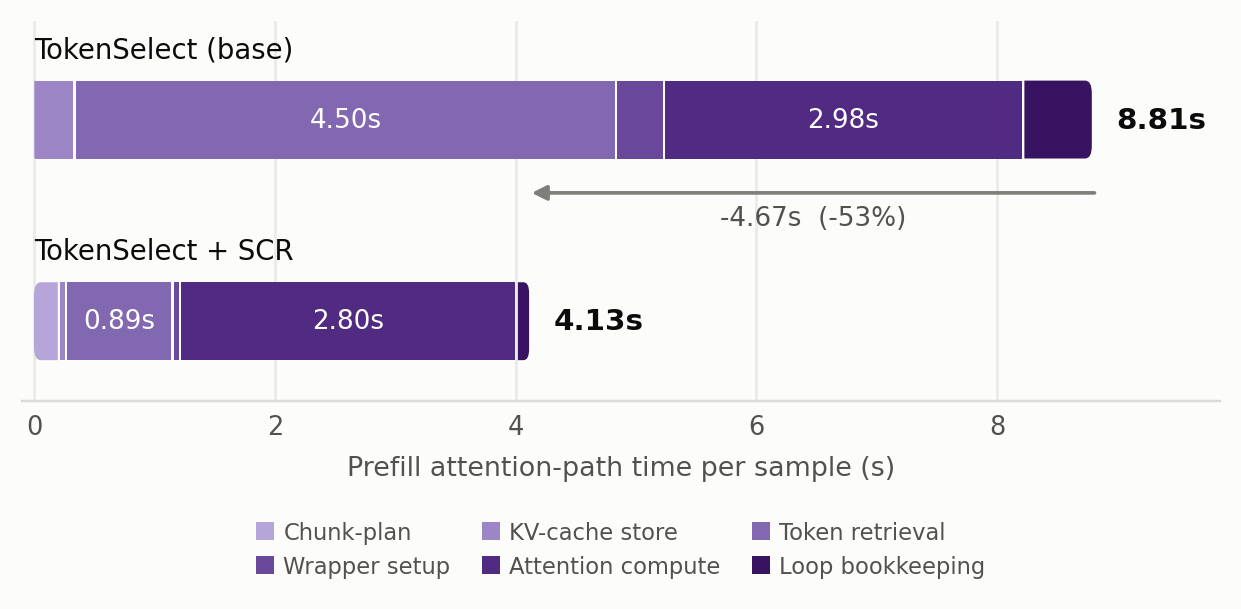
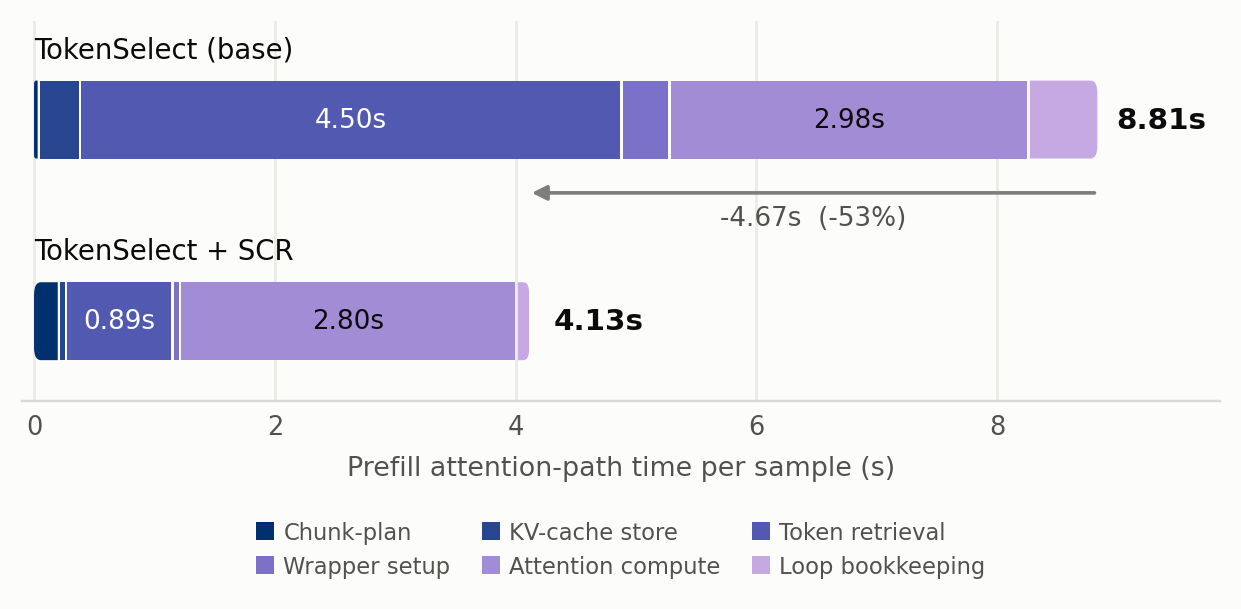
Enhance prefill breakdown visualization: update color ramp and improve label contrast

diff --git a/scripts/plot_prefill_breakdown.py b/scripts/plot_prefill_breakdown.py
@@ -21,8 +21,26 @@ STAGES = [
 CONFIGS = ["TokenSelect (base)", "TokenSelect + SCR"]
 
 # lavender ordinal ramp — validateOrdinal: monotone L, dL>=0.083, light-end 2.32:1, CVD dE 8.5
-# ordinal ramp lavender, validateOrdinal: dL>=0.091, light-end 2.18:1, CVD dE 8.6 (PASS)
-RAMP = ["#b6a5d9", "#9c86c5", "#8267b1", "#6a489c", "#512b82", "#381361"]
+# Ramp da sac xanh bien dam -> tim (kieu ColorBrewer BuPu, dao chieu).
+# validateOrdinal: L don dieu, dL>=0.090, light-end 2.01:1, CVD dE 8.4 (PASS).
+# Rieng check "Single hue" khong ap dung: day la multi-hue sequential co chu dich.
+RAMP = ["#00306e", "#284590", "#515ab0", "#7b71c8", "#a28cd6", "#c6a9e2"]
+
+
+def _lum(hexc):
+    def f(c):
+        c = int(hexc[c:c + 2], 16) / 255
+        return c / 12.92 if c <= 0.04045 else ((c + 0.055) / 1.055) ** 2.4
+    r, g, b = f(1), f(3), f(5)
+    return 0.2126 * r + 0.7152 * g + 0.0722 * b
+
+
+def label_ink(bg):
+    """Chon mau chu theo do tuong phan: ramp trai dai tu rat dam den rat sang."""
+    L = _lum(bg)
+    white = (1.05) / (L + 0.05)
+    dark = (L + 0.05) / (0.0086 + 0.05)
+    return "#ffffff" if white >= dark else "#0b0b0b"
 
 SURFACE = "#fcfcfb"
 INK      = "#0b0b0b"
@@ -31,6 +49,12 @@ INK_MUTE = "#807e79"
 
 BAR_H = 0.34
 GAP   = 0.022          # khe ~2px giua cac doan
+# Doan nho nhat van phai nhin thay duoc, neu khong nguoi doc dem thieu thanh phan.
+# Chunk-plan cua baseline = 0.006s -> 0.7px, mong hon ca khe ngan cach nen mat hut.
+# Phai ep ca BE RONG VE lan BUOC NHICH; neu chi ep be rong ma van nhich theo gia tri
+# that thi doan sau se ve de len gan het -> baseline chi con 5 doan.
+# Chi 1 doan bi anh huong (chunk-plan baseline), lam thanh dai them 0.046s tren 8.81s (0.5%).
+MIN_V = 0.052
 
 
 def rounded(ax, x, y, w, h, color, left=False, right=False, r=0.055):
@@ -70,15 +94,16 @@ for ci, ypos_i in enumerate(ypos):
     for si, v in enumerate(vals):
         if v <= 0:
             continue
-        w = max(v - GAP, 0.012)
+        dv = max(v, MIN_V)
+        w = dv - GAP
         rounded(ax, x, ypos_i, w, BAR_H, RAMP[si],
                 left=(si == first), right=(si == last))
         # nhan truc tiep, chi cho doan du rong (selective direct labels)
         if v >= 0.75:
             ax.text(x + w / 2, ypos_i + BAR_H / 2, f"{v:.2f}s",
-                    ha="center", va="center", fontsize=8.6, color="#ffffff",
+                    ha="center", va="center", fontsize=8.6, color=label_ink(RAMP[si]),
                     fontweight="medium", zorder=4)
-        x += v
+        x += dv
     # tong o cuoi thanh
     ax.text(totals[ci] + 0.18, ypos_i + BAR_H / 2, f"{totals[ci]:.2f}s",
             ha="left", va="center", fontsize=9.6, color=INK, fontweight="bold", zorder=4)
